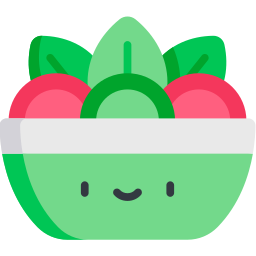
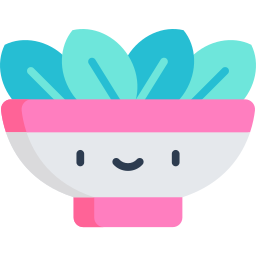
Get updates onto settings page

diff --git a/pages/settings/index.js b/pages/settings/index.js
@@ -1,22 +1,50 @@
+import { useEffect, useState } from "react";
+
 import SettingsTopInfo from "../../components/SettingsTopInfo";
 import SettingsInputs from "../../components/SettingsInputs";
 import SettingsButtons from "../../components/SettingsButtons";
 import Heading1 from "../../components/Heading1";
 import BottomTabs from "../../components/BottomTabs";
 import WithProtected from "../../components/WithProtected";
+import Loading from "../../components/Loading";
+import UserModel from "../../model/user";
+import { useAuth } from "../../context/AuthContext";
 
 import styles from "./styles.module.css";
 
 const SettingsPage = () => {
+  const { authedUser } = useAuth();
+
+  const uid = authedUser?.uid ? authedUser.uid : null;
+
+  const [user, setUser] = useState();
+  const [loading, setLoading] = useState(true);
+
+  useEffect(() => {
+    async function fetchData() {
+      if (!uid) {
+        setLoading(false);
+        return;
+      }
+      const userResponse = await UserModel.getUser(uid);
+      setUser(userResponse);
+      setLoading(false);
+    }
+    fetchData();
+  }, []);
+
+  if (loading) {
+    return <Loading />;
+  }
   return (
     <WithProtected>
       <div className={styles.container}>
         <Heading1>Settings</Heading1>
-        <SettingsTopInfo />
-        <SettingsInputs />
+        <SettingsTopInfo user={user} />
+        <SettingsInputs user={user} />
         <SettingsButtons />
-        <BottomTabs />
-    </div>
+        <BottomTabs isProfile="true" />
+      </div>
     </WithProtected>
   );
 };

diff --git a/components/SettingsTopInfo/index.js b/components/SettingsTopInfo/index.js
@@ -2,15 +2,13 @@ import Link from "next/link";
 import { FontAwesomeIcon } from "@fortawesome/react-fontawesome";
 import { faPenToSquare } from "@fortawesome/free-solid-svg-icons";
 
-import { useAuth } from "../../context/AuthContext";
 import Heading2 from "../Heading2";
 
 import styles from "./styles.module.css";
 
-const SettingsTopInfo = () => {
-  const {
-    authedUser: { uid },
-  } = useAuth();
+const SettingsTopInfo = ({ user }) => {
+  const { avatar } = user;
+
   return (
     <div className={styles.container}>
       <Link href="/profile">
@@ -19,7 +17,7 @@ const SettingsTopInfo = () => {
       <Heading2>Your Profile</Heading2>
       <Link href="/settings/change-avatar">
         <a className={styles.avatarContainer}>
-          <img src="/avatars/camp.png" className={styles.image} />
+          <img src={avatar} className={styles.image} />
           <FontAwesomeIcon
             icon={faPenToSquare}
             size="lg"

diff --git a/components/SettingsInputs/index.js b/components/SettingsInputs/index.js
@@ -1,11 +1,8 @@
-import { useAuth } from "../../context/AuthContext";
-
 import styles from "./styles.module.css";
 
-const SettingsInputs = () => {
-  const {
-    authedUser: { uid },
-  } = useAuth();
+const SettingsInputs = ({ user }) => {
+  const { firstName, email } = user;
+
   return (
     <form className={styles.container}>
       <label htmlFor="text">Name</label>
@@ -14,7 +11,7 @@ const SettingsInputs = () => {
         id="text"
         type="text"
         name="firstName"
-        value="Robby"
+        value={firstName}
       />
       <label htmlFor="email">Email</label>
       <input
@@ -22,7 +19,7 @@ const SettingsInputs = () => {
         id="email"
         type="text"
         name="email"
-        value="vince@gmail.com"
+        value={email}
       />
     </form>
   );

diff --git a/components/AvatarList/index.js b/components/AvatarList/index.js
@@ -19,8 +19,8 @@ const AvatarList = () => {
   const avatars1 = [
     "/avatars/salad.png",
     "/avatars/cooking-pot.png",
-    "/avatars/food-container.png",
-    "/avatars/pie.png",
+    "/avatars/tupper.png",
+    "/avatars/water-bottle.png",
     "/avatars/pot.png",
     "/avatars/smoothie.png",
   ];
